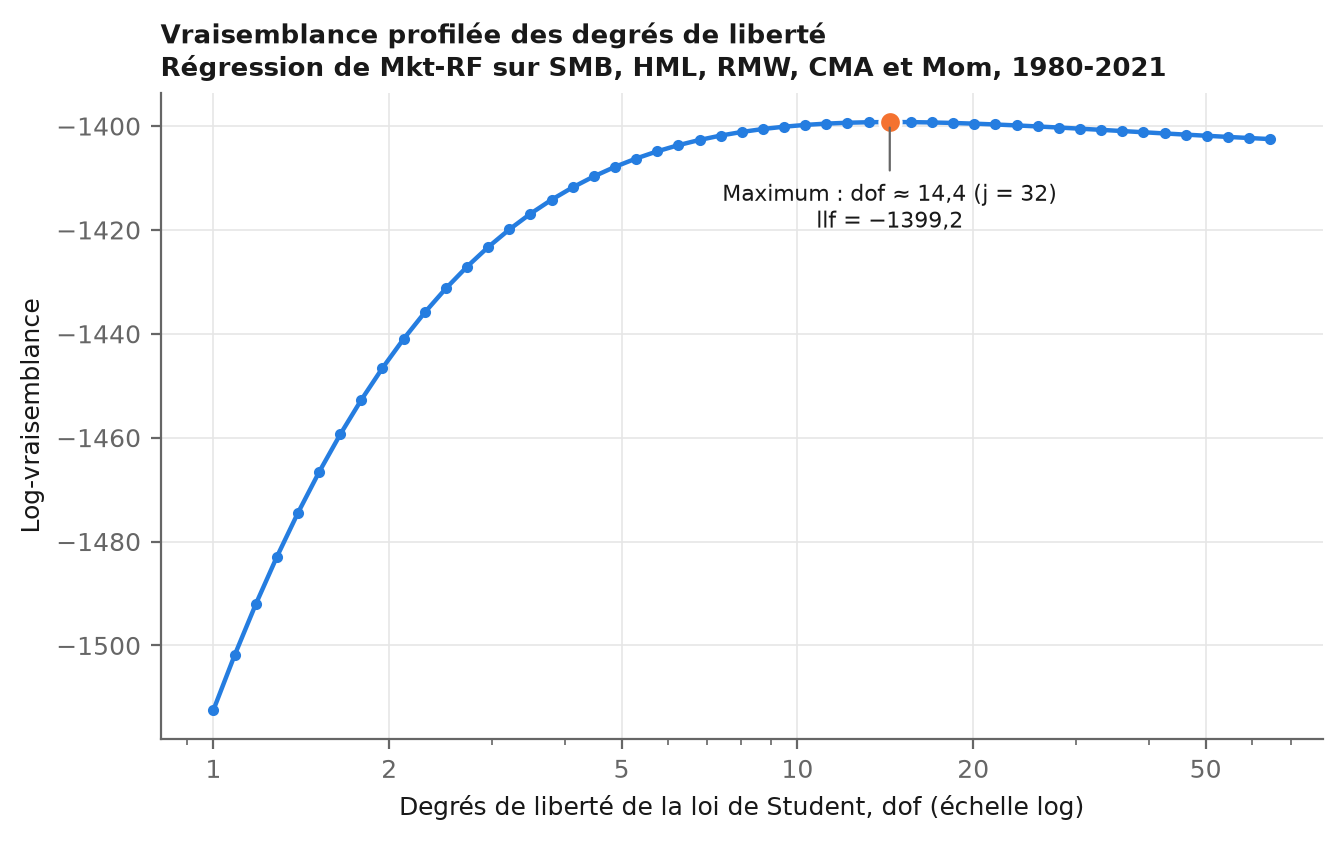
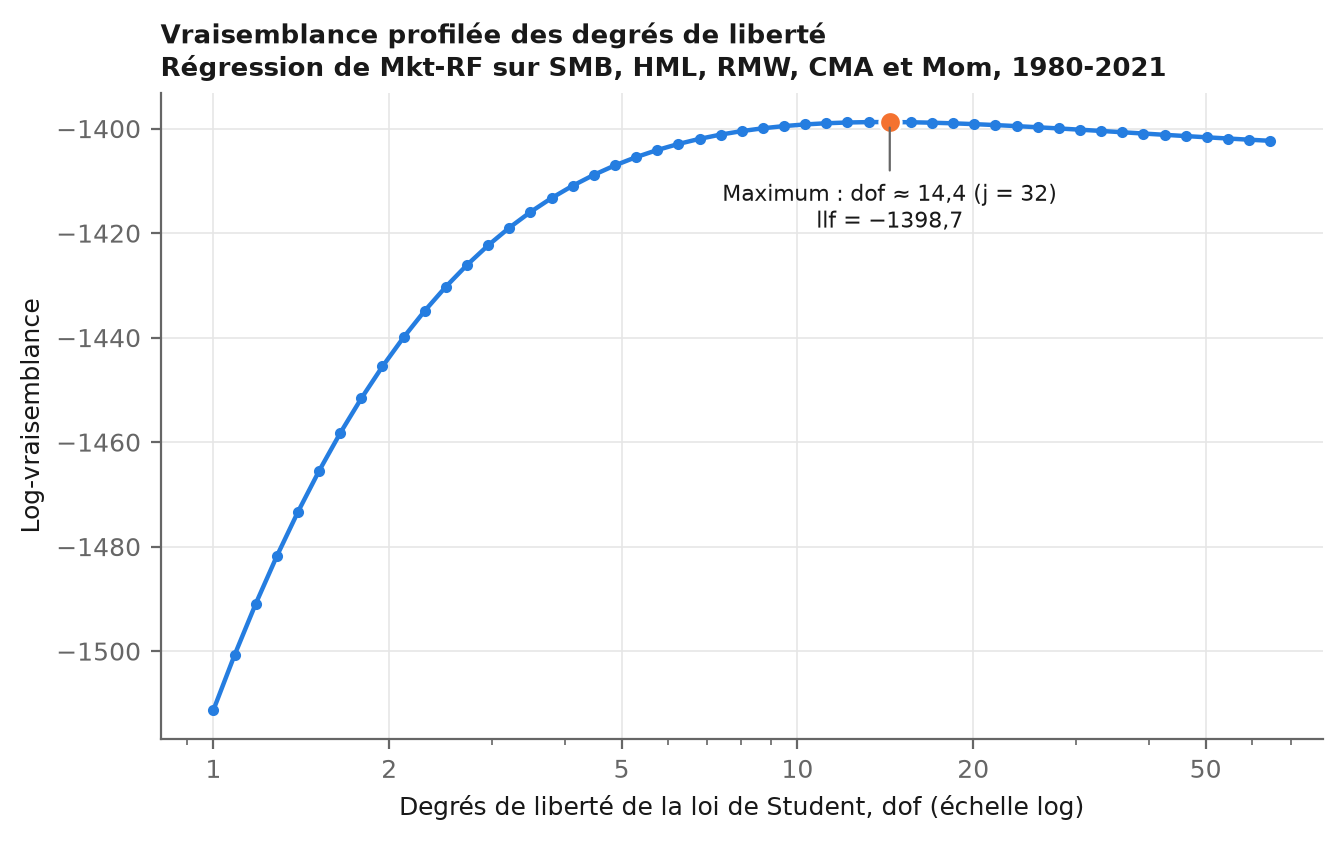
hihi

diff --git a/probleme2.py b/probleme2.py
@@ -8,11 +8,12 @@ Données : le même jeu de données mensuel 1980-2021 qu'au Problème 1
 (fonction Q1_KenFrenchData de probleme1.py), en % par mois.
 
 Choix de modélisation :
-- sigma chapeau = écart-type des résidus MCO avec correction des degrés de
-  liberté, sqrt(SSR / (T - k)), où k = nombre de coefficients, constante incluse ;
+- sigma chapeau = estimateur du maximum de vraisemblance de l'écart-type des
+  résidus, sqrt(SSR / T) : cohérent avec le cadre de vraisemblance et traite le
+  modèle contraint et le non contraint de façon identique dans le test RV ;
 - les résidus standardisés e_t / sigma suivent une loi de Student t(dof)
   standard (non ramenée à une variance de 1), comme dans l'énoncé.
-
+ok 
 Tous les tableaux (.csv) et graphiques (.png) sont enregistrés dans
 resultats_probleme2/, sous le nom <question>_<titre>.
 """
@@ -65,7 +66,7 @@ def Q2_Donnees():
 def Q2_OLSStudentT(df, dof):
     """
     (i) MCO de la première colonne de df sur une constante et les autres colonnes ;
-    (ii) résidus e_t et leur écart-type estimé sigma = sqrt(SSR / (T - k)) ;
+    (ii) résidus e_t et leur écart-type estimé sigma = sqrt(SSR / T) (EMV) ;
     (iii) log-vraisemblance du modèle si z_t = e_t / sigma sont i.i.d. t(dof).
 
     La densité d'un rendement y_t est celle de e_t = sigma * z_t, soit
@@ -82,13 +83,13 @@ def Q2_OLSStudentT(df, dof):
     """
     y = df.iloc[:, 0].to_numpy()
     X = np.column_stack([np.ones(len(df)), df.iloc[:, 1:].to_numpy()])
-    T, k = X.shape
+    T = X.shape[0]
 
     # (i) MCO : b = (X'X)^-1 X'y
     b = np.linalg.solve(X.T @ X, X.T @ y)
-    # (ii) résidus et écart-type estimé (k coefficients, constante incluse)
+    # (ii) résidus et écart-type estimé par maximum de vraisemblance (division par T)
     e = y - X @ b
-    sigma = np.sqrt(e @ e / (T - k))
+    sigma = np.sqrt(e @ e / T)
     # (iii) log-vraisemblance de Student des résidus standardisés
     z = e / sigma
     log_f = (gammaln((dof + 1) / 2) - gammaln(dof / 2) - 0.5 * np.log(dof * np.pi)
@@ -126,7 +127,7 @@ def Q2_TestRV(df, dof):
 def Q2_VraisemblanceProf(df):
     """
     Évalue Q2_OLSStudentT(df, dof_j) pour dof_j = exp(j/12), j = 0, ..., 50
-    (de 1 à environ 64,7), trace la log-vraisemblance profilée en fonction des
+    (de e^0 = 1 à e^(50/12) ≈ 64,5), trace la log-vraisemblance profilée en fonction des
     degrés de liberté et retourne un tableau 51 x 2 : [dof_j, llf_j].
     """
     dof = np.exp(np.arange(51) / 12)
